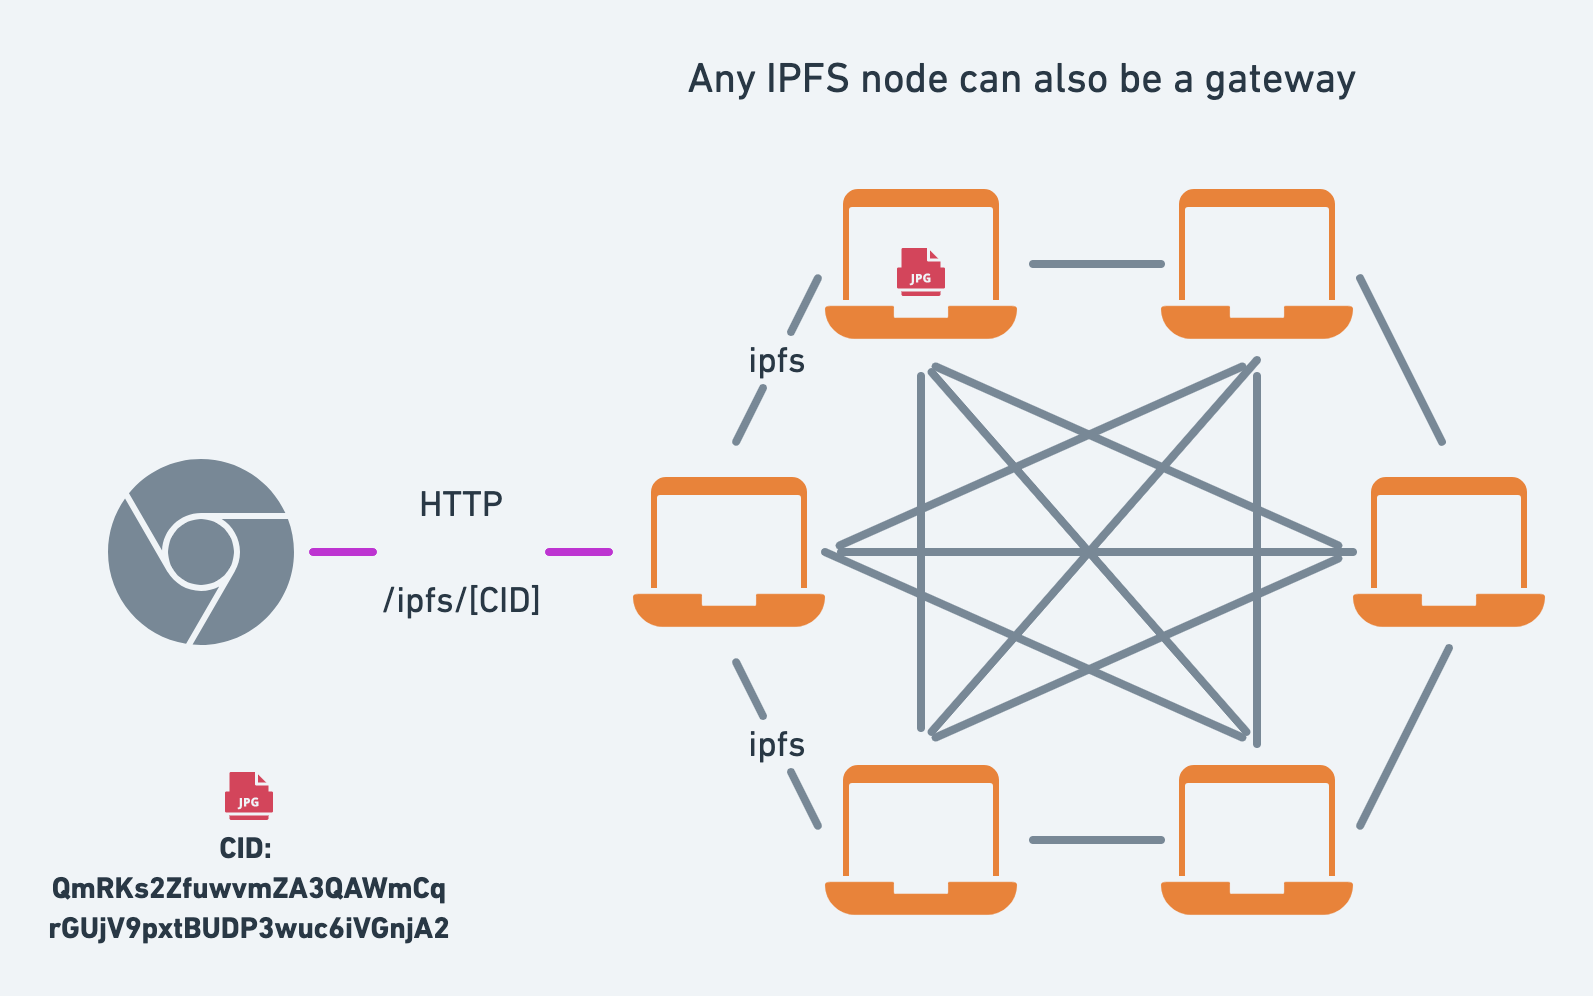
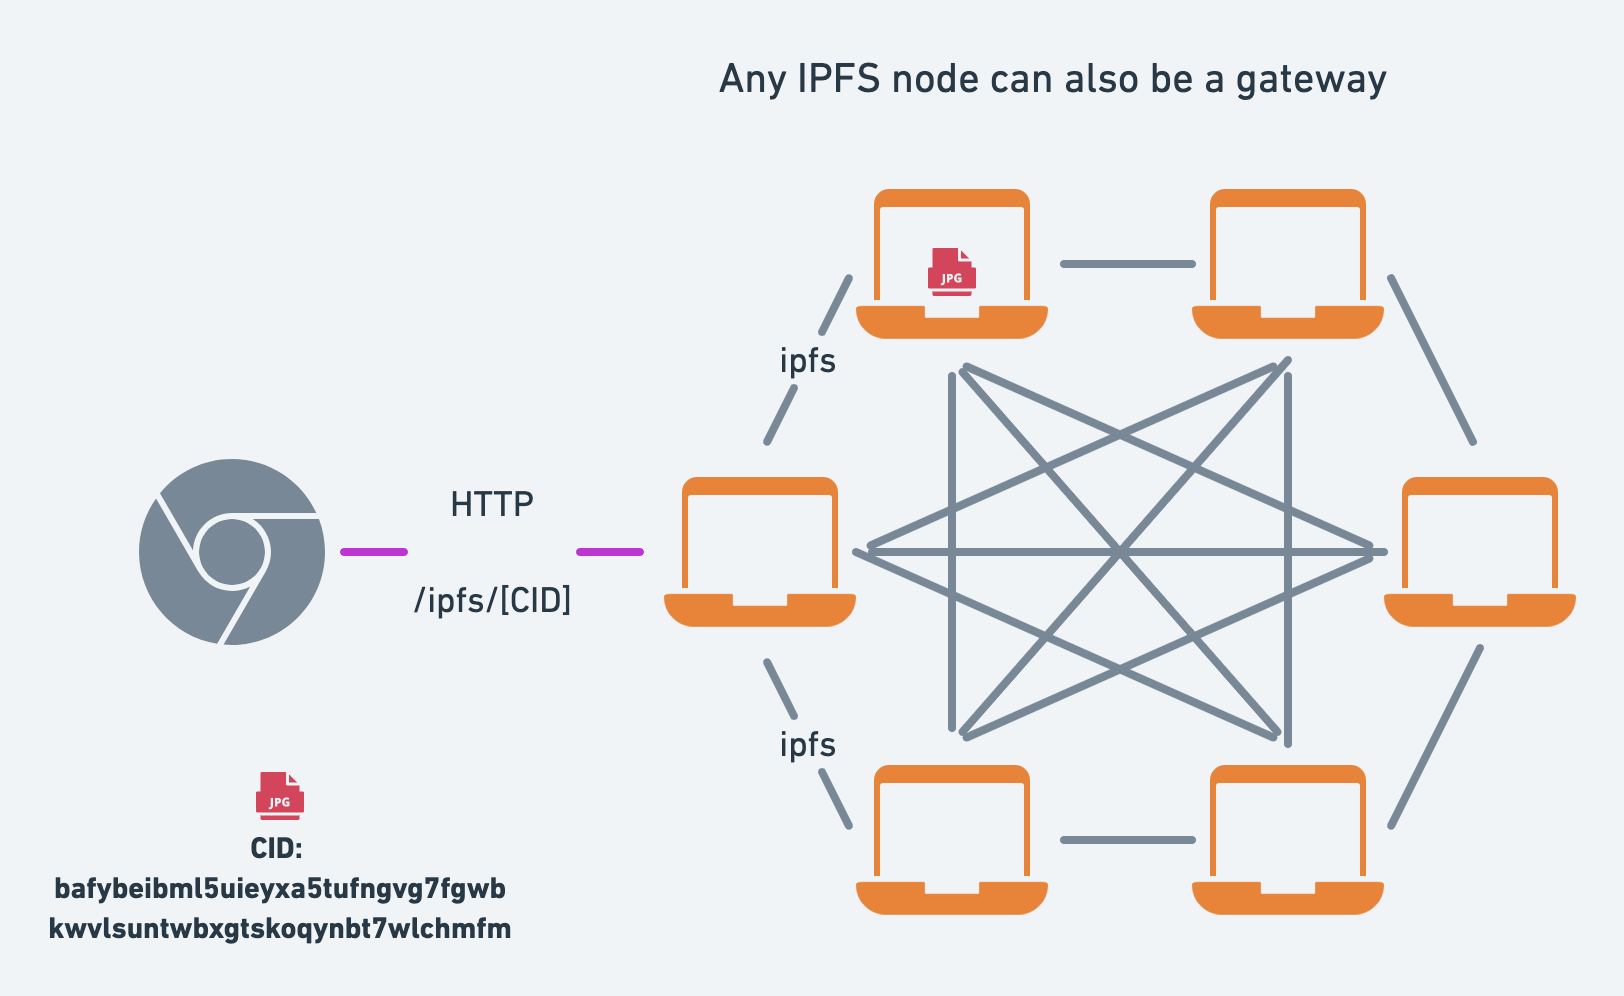
Update images to use v1 cids

diff --git a/gateways/break-on-through-gateways.md b/gateways/break-on-through-gateways.md
@@ -76,7 +76,7 @@ Moreover, the HTTP protocol does not specify a way to **ask other servers** for 
 
 One of the core characteristics of the IPFS is that it is a peer-to-peer network. In contrast to the client-server model where you typically have many clients consuming from a single server, with the peer-to-peer model, every computer (typically referred to as a _peer_) in the IPFS network wears both the hat of a server and a client. This means that every IPFS peer can become a productive member of the network.
 
-![client-server compared with peer-to-peer](https://cloudflare-ipfs.com/ipfs/bafybeiho4jont2vresctmrlec4zi7lawxfehbaut2b3kwsgiez7wug6lr4/http-vs-ipfs.png)
+![client-server compared with peer-to-peer](./http-vs-ipfs.png)
 
 > Note: The article uses the terms **peer** and **node** interchangeably to refer to computers running the IPFS software.
 
@@ -94,7 +94,7 @@ In the example with the image loaded from NASA, we used location addressing to f
 - _hostname_: DNS name `www.nasa.gov` mapped to an IP address of the server.
 - _path_ to the location on the server: `/sites/default/files/thumbnails/image/04_iss067e033423.jpg`
 
-![location addressing](https://i.imgur.com/YKE6bRS.png)
+![location addressing](./location-addressing.png)
 
 The challenges with location addressing are numerous. We've all had the experience of going down an internet rabbit hole only to be abrupted by dead links because the link changed or the server is no longer hosting the files.
 
@@ -141,7 +141,7 @@ They allow you to use the HTTP protocol –which almost every programming langua
 
 In its simplest form, a gateway is an IPFS node that also accepts HTTP requests for CIDs in addition to speaking the IPFS protocol to participate in the peer-to-peer network. Most IPFS implementations can also work as a gateway.
 
-![Any IPFS node can also be a gateway](https://cloudflare-ipfs.com/ipfs/bafybeibezzvuhqwzz47yv4cg2hvyevuekcjr4uv7txp3frb5e44cr2bl2i/browser-gateway.png)
+![Any IPFS node can also be a gateway](./browser-gateway.png)
 
 <!-- Some browsers such as Brave and [Opera](https://blogs.opera.com/tips-and-tricks/2021/02/opera-crypto-files-for-keeps-ipfs-unstoppable-domains/) and introducing new protocols to browsers can be a lengthy process. This is where IPFS Gateways come in handy. -->
 
